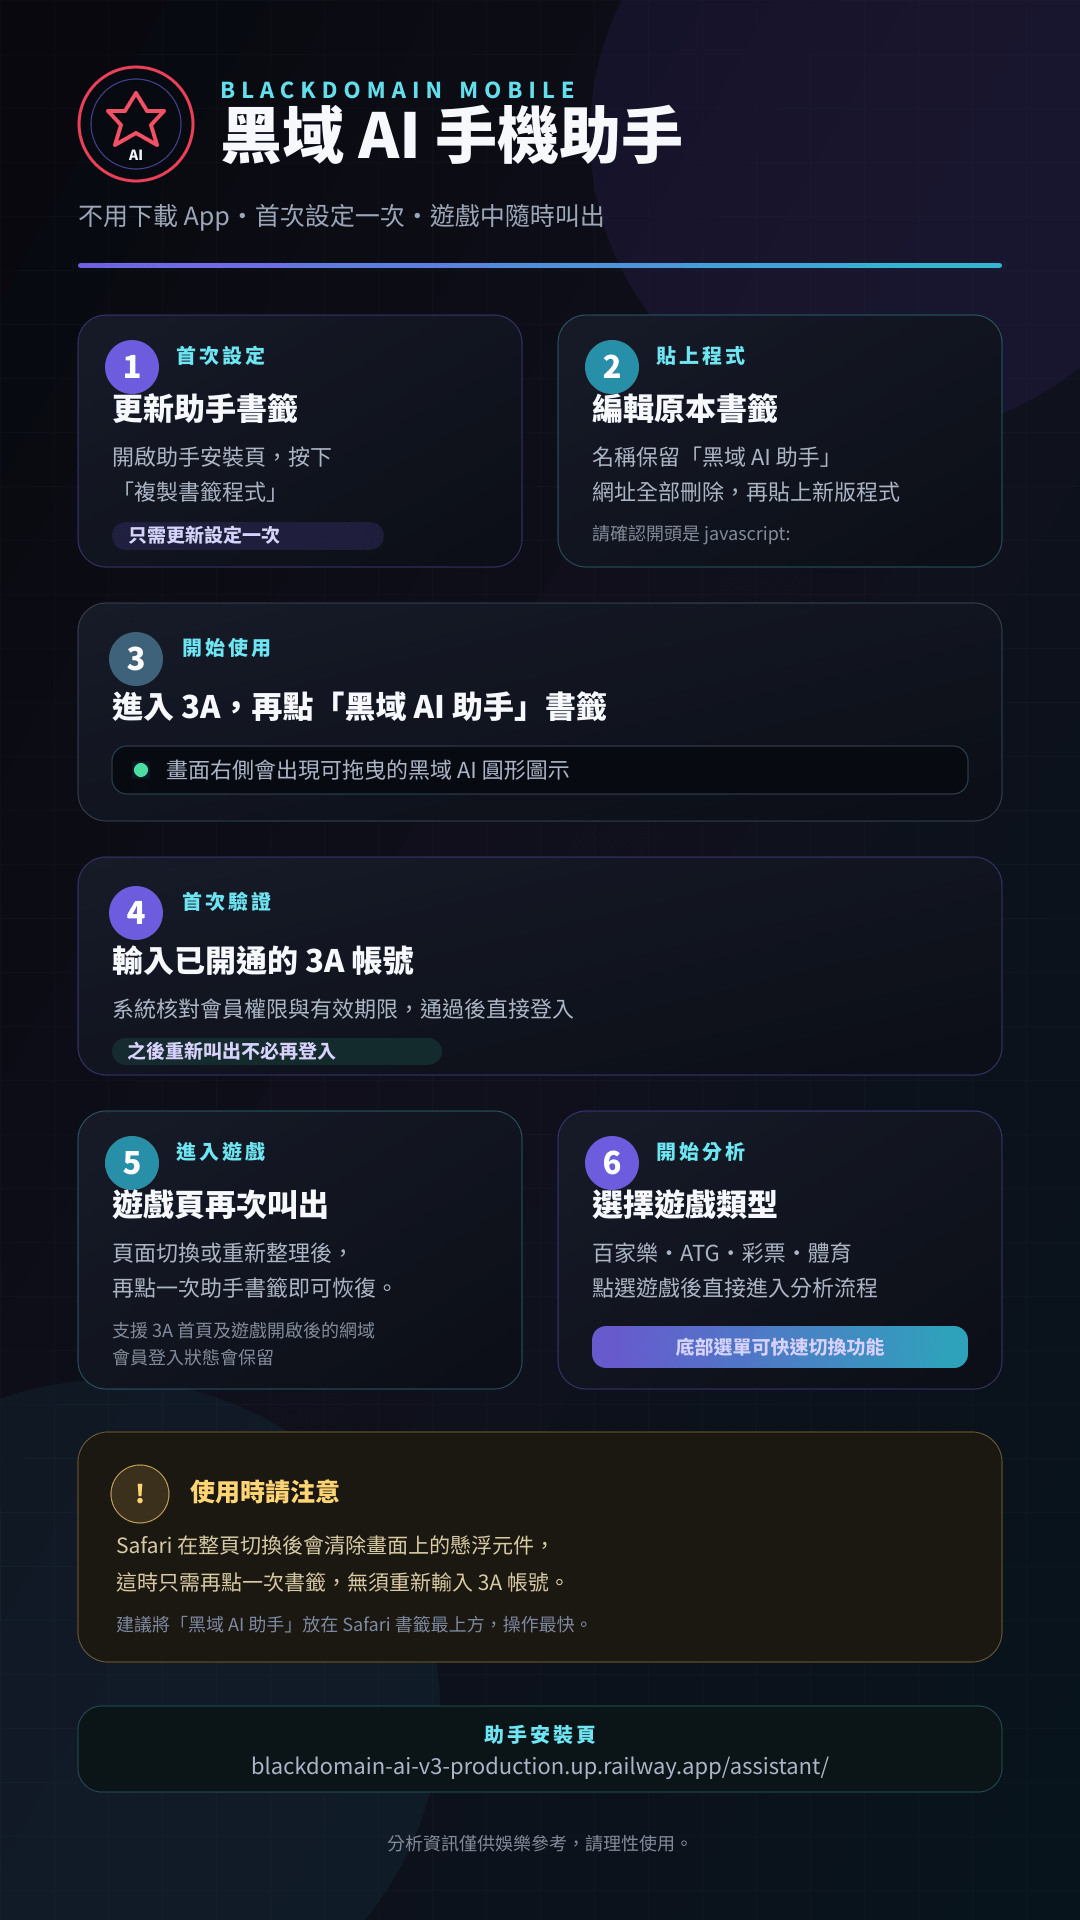
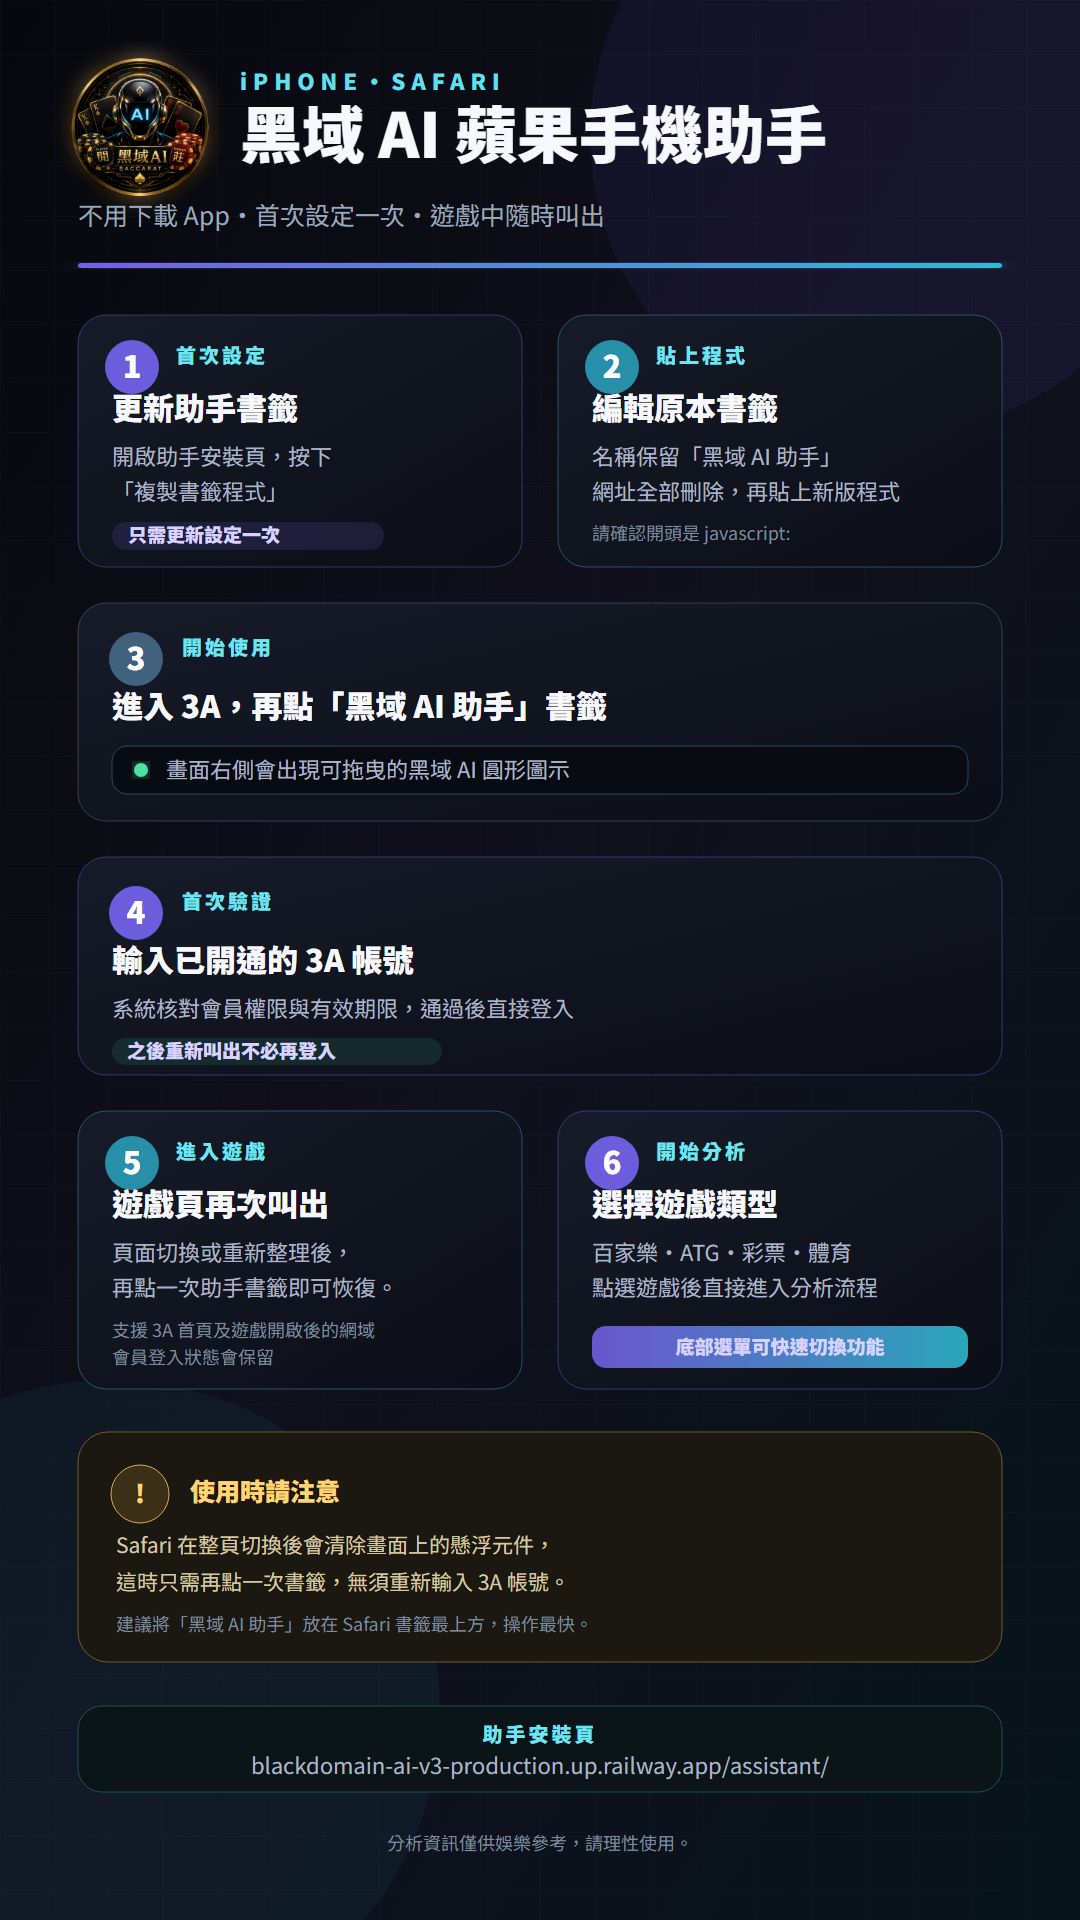
Clarify Android and iPhone assistant guides

diff --git a/public/assistant/index.html b/public/assistant/index.html
@@ -7,16 +7,8 @@
   <meta name="theme-color" content="#07080c">
   <title>黑域 AI｜一鍵懸浮助手</title>
   <style>
-    *{box-sizing:border-box}body{margin:0;min-height:100vh;padding:calc(24px + env(safe-area-inset-top)) 20px calc(30px + env(safe-area-inset-bottom));background:radial-gradient(circle at 50% 0,#281016,#090b10 42%,#050609);color:#f7f8fb;font-family:system-ui,-apple-system,"Noto Sans TC",sans-serif}.wrap{width:min(100%,560px);margin:auto}.brand{display:flex;align-items:center;gap:13px;margin-bottom:28px}.brand img{width:58px;height:58px;border-radius:50%;box-shadow:0 0 28px #8d1c2d}.brand small{display:block;color:#ff6576;letter-spacing:.14em;font-size:10px}.brand b{display:block;margin-top:4px;font-size:20px}h1{margin:0;font-size:30px;line-height:1.2}.lead{margin:12px 0 24px;color:#aeb3be;line-height:1.7}.card{padding:20px;border:1px solid #3b3036;border-radius:20px;background:rgba(12,14,20,.92);box-shadow:0 24px 70px #000}.card h2{margin:0 0 14px;font-size:18px}.code{width:100%;height:86px;padding:12px;border:1px solid #343944;border-radius:12px;background:#07090d;color:#aeb5c2;resize:none;font-size:11px}.copy,.copy-guide{width:100%;height:50px;margin-top:12px;border:0;border-radius:13px;background:linear-gradient(135deg,#ff5368,#b9142e);color:white;font-size:15px;font-weight:900}.status{min-height:20px;margin:9px 0 0;color:#6ff0bd;font-size:12px}.steps{margin-top:18px;padding:20px;border:1px solid #272c35;border-radius:18px;background:#090c12}.steps.android{border-color:#315b63}.steps h2{margin:0 0 12px;font-size:17px}.steps ol{margin:0;padding-left:22px;color:#c3c7d0;line-height:1.9}.warning{margin:14px 0 0;padding:12px 14px;border:1px solid #8b692a;border-radius:12px;background:#211b0f;color:#ffd77e;font-size:13px;line-height:1.65}.guide-text{margin-top:16px;padding:15px;border:1px solid #303a48;border-radius:13px;background:#070a0f;color:#c8ced8;font-size:13px;line-height:1.8;white-space:pre-line}.copy-guide{background:linear-gradient(135deg,#6656d8,#299aae)}.note{margin-top:18px;color:#9299a6;font-size:12px;line-height:1.65}.launch,.guide-download{display:block;margin-top:16px;padding:15px;border:1px solid #4a2730;border-radius:13px;color:#fff;text-align:center;text-decoration:none;font-weight:800}.guide{margin-top:18px;padding:12px;border:1px solid #272c35;border-radius:18px;background:#090c12}.guide img{display:block;width:100%;height:auto;border-radius:12px}.guide-download{margin:12px 0 0;border-color:#3c4657;background:#111620}
+    *{box-sizing:border-box}body{margin:0;min-height:100vh;padding:calc(24px + env(safe-area-inset-top)) 20px calc(30px + env(safe-area-inset-bottom));background:radial-gradient(circle at 50% 0,#281016,#090b10 42%,#050609);color:#f7f8fb;font-family:system-ui,-apple-system,"Noto Sans TC",sans-serif}.wrap{width:min(100%,560px);margin:auto}.brand{display:flex;align-items:center;gap:13px;margin-bottom:28px}.brand img{width:58px;height:58px;border-radius:50%;box-shadow:0 0 28px #8d1c2d}.brand small{display:block;color:#ff6576;letter-spacing:.14em;font-size:10px}.brand b{display:block;margin-top:4px;font-size:20px}h1{margin:0;font-size:30px;line-height:1.2}.lead{margin:12px 0 24px;color:#aeb3be;line-height:1.7}.card{padding:20px;border:1px solid #3b3036;border-radius:20px;background:rgba(12,14,20,.92);box-shadow:0 24px 70px #000}.card h2{margin:0 0 14px;font-size:18px}.code{width:100%;height:86px;padding:12px;border:1px solid #343944;border-radius:12px;background:#07090d;color:#aeb5c2;resize:none;font-size:11px}.copy{width:100%;height:50px;margin-top:12px;border:0;border-radius:13px;background:linear-gradient(135deg,#ff5368,#b9142e);color:white;font-size:15px;font-weight:900}.status{min-height:20px;margin:9px 0 0;color:#6ff0bd;font-size:12px}.steps{margin-top:18px;padding:20px;border:1px solid #272c35;border-radius:18px;background:#090c12}.steps.android{border-color:#315b63}.steps.iphone{border-color:#5d4b8c}.steps h2{margin:0 0 12px;font-size:17px}.steps ol{margin:0;padding-left:22px;color:#c3c7d0;line-height:1.9}.warning{margin:14px 0 0;padding:12px 14px;border:1px solid #8b692a;border-radius:12px;background:#211b0f;color:#ffd77e;font-size:13px;line-height:1.65}.note{margin-top:18px;color:#9299a6;font-size:12px;line-height:1.65}.launch,.guide-download{display:block;margin-top:16px;padding:15px;border:1px solid #4a2730;border-radius:13px;color:#fff;text-align:center;text-decoration:none;font-weight:800}.guide{margin-top:18px;padding:12px;border:1px solid #272c35;border-radius:18px;background:#090c12}.guide img{display:block;width:100%;height:auto;border-radius:12px}.guide-download{margin:12px 0 0;border-color:#3c4657;background:#111620}
   </style>
 </head>
-<body><main class="wrap"><div class="brand"><img src="/brand/blackdomain-ai-logo.png" alt="黑域 AI"><div><small>BLACKDOMAIN MOBILE TOOL</small><b>黑域 AI 懸浮助手</b></div></div><h1>一鍵放進遊戲頁面</h1><p class="lead">不需 Expo Go。首次建立書籤後，可在 3A 或遊戲頁叫出可拖曳的黑域 AI Logo；Android 與 iPhone 的啟動方式不同。</p><section class="card"><h2>複製助手書籤程式</h2><textarea id="code" class="code" readonly></textarea><button id="copy" class="copy" type="button">複製書籤程式</button><p id="status" class="status"></p></section><section class="steps android"><h2>Android Chrome 操作步驟</h2><ol><li>使用 Chrome 開啟本頁，按「複製書籤程式」。</li><li>右上角 ⋮ → 加入書籤，再編輯剛建立的書籤。</li><li>名稱改成「黑域 AI 助手」，網址刪除後貼上程式。</li><li>進入 3A，點網址列並輸入「黑域 AI 助手」。</li><li>點下方帶有 ★ 的書籤建議，右側就會出現黑域 AI Logo。</li><li>點 Logo，首次輸入已開通的 3A 帳號即可開始分析。</li></ol><p class="warning">不可使用 LINE 內建瀏覽器，也不可從 Chrome 書籤清單直接點開。</p><div id="androidGuideText" class="guide-text">【黑域 AI 安卓助手｜操作方式】
-1. 用 Chrome 開啟安裝頁並按「複製書籤程式」。
-2. 右上角 ⋮ → 加入書籤，再編輯該書籤。
-3. 名稱改成「黑域 AI 助手」，網址刪除後貼上程式。
-4. 進入 3A，點網址列輸入「黑域 AI 助手」。
-5. 點選帶有 ★ 的書籤建議，右側會出現黑域 AI Logo。
-6. 點 Logo，首次輸入已開通的 3A 帳號即可。
-
-注意：請勿使用 LINE 內建瀏覽器，也不要從 Chrome 書籤清單直接開啟。</div><button id="copyAndroid" class="copy-guide" type="button">複製 Android 文字說明</button><p id="androidCopyStatus" class="status"></p><a class="launch" href="https://sn058.3a1788.bet/" rel="noopener noreferrer">前往 3A 測試</a></section><section class="steps"><h2>iPhone Safari 設定</h2><ol><li>先將本頁加入書籤。</li><li>進入 Safari 書籤並編輯剛建立的書籤。</li><li>名稱改為「黑域 AI 助手」，網址全部刪除後貼上剛複製的程式。</li><li>開啟 3A 或遊戲頁，再從書籤點「黑域 AI 助手」。</li></ol></section><section class="guide"><img src="/assistant/blackdomain-assistant-android-guide.png" alt="黑域 AI Android 手機助手操作步驟"><a class="guide-download" href="/assistant/blackdomain-assistant-android-guide.png" download>下載 Android 操作示意圖</a></section><section class="guide"><img src="/assistant/blackdomain-assistant-guide.png" alt="黑域 AI iPhone 手機助手操作步驟"><a class="guide-download" href="/assistant/blackdomain-assistant-guide.png" download>下載 iPhone 操作示意圖</a></section><p class="note">遊戲切換或整頁重新整理後，Android 請再次從網址列搜尋並執行書籤；iPhone 再點一次 Safari 書籤即可恢復。會員登入狀態會保留。</p></main><script>let device=localStorage.getItem("blackdomain_assistant_device");if(!device){const bytes=crypto.getRandomValues(new Uint8Array(24));device=Array.from(bytes,value=>value.toString(16).padStart(2,"0")).join("");localStorage.setItem("blackdomain_assistant_device",device)}const loader=`https://blackdomain-ai-v3-production.up.railway.app/assistant/bookmarklet.js?v=20260907.03&device=${encodeURIComponent(device)}`;const code=`javascript:(()=>{if(document.getElementById('blackdomain-floating-assistant')){document.getElementById('blackdomain-floating-assistant').remove();return}const s=document.createElement('script');s.src='${loader}&t='+Date.now();s.onerror=()=>alert('黑域 AI 助手載入失敗，請確認網路後重試');document.documentElement.appendChild(s)})()`;document.getElementById("code").value=code;document.getElementById("copy").addEventListener("click",async()=>{try{await navigator.clipboard.writeText(code);document.getElementById("status").textContent=/Android/i.test(navigator.userAgent)?"已複製。貼入書籤後，請在 3A 網址列搜尋「黑域 AI 助手」啟動。":"已複製，請貼到書籤的網址欄位。"}catch{document.getElementById("code").select();document.execCommand("copy");document.getElementById("status").textContent="已複製。"}});document.getElementById("copyAndroid").addEventListener("click",async()=>{const guide=document.getElementById("androidGuideText").innerText;try{await navigator.clipboard.writeText(guide);document.getElementById("androidCopyStatus").textContent="Android 操作說明已複製。"}catch{document.getElementById("androidCopyStatus").textContent="無法自動複製，請長按上方文字複製。"}});</script></body>
+<body><main class="wrap"><div class="brand"><img src="/brand/blackdomain-ai-logo.png" alt="黑域 AI"><div><small>BLACKDOMAIN MOBILE TOOL</small><b>黑域 AI 懸浮助手</b></div></div><h1>一鍵放進遊戲頁面</h1><p class="lead">不需 Expo Go。首次建立書籤後，可在 3A 或遊戲頁叫出可拖曳的黑域 AI Logo；Android 與 iPhone 的啟動方式不同。</p><section class="card"><h2>複製助手書籤程式</h2><textarea id="code" class="code" readonly></textarea><button id="copy" class="copy" type="button">複製書籤程式</button><p id="status" class="status"></p></section><section class="steps android"><h2>Android 手機｜Chrome 操作步驟</h2><ol><li>使用 Chrome 開啟本頁，按「複製書籤程式」。</li><li>右上角 ⋮ → 加入書籤，再編輯剛建立的書籤。</li><li>名稱改成「黑域 AI 助手」，網址刪除後貼上程式。</li><li>進入 3A，點網址列並輸入「黑域 AI 助手」。</li><li>點下方帶有 ★ 的書籤建議，右側就會出現黑域 AI Logo。</li><li>點 Logo，首次輸入已開通的 3A 帳號即可開始分析。</li></ol><p class="warning">不可使用 LINE 內建瀏覽器，也不可從 Chrome 書籤清單直接點開。</p><a class="launch" href="https://sn058.3a1788.bet/" rel="noopener noreferrer">前往 3A 測試</a></section><section class="guide"><img src="/assistant/blackdomain-assistant-android-guide.png" alt="黑域 AI Android 手機助手操作步驟"><a class="guide-download" href="/assistant/blackdomain-assistant-android-guide.png" download>下載 Android 操作示意圖</a></section><section class="steps iphone"><h2>蘋果手機｜iPhone Safari 操作步驟</h2><ol><li>先將本頁加入書籤。</li><li>進入 Safari 書籤並編輯剛建立的書籤。</li><li>名稱改為「黑域 AI 助手」，網址全部刪除後貼上剛複製的程式。</li><li>開啟 3A 或遊戲頁，再從書籤點「黑域 AI 助手」。</li></ol></section><section class="guide"><img src="/assistant/blackdomain-assistant-guide.png" alt="黑域 AI 蘋果手機 iPhone 操作步驟"><a class="guide-download" href="/assistant/blackdomain-assistant-guide.png" download>下載蘋果手機操作示意圖</a></section><p class="note">遊戲切換或整頁重新整理後，Android 請再次從網址列搜尋並執行書籤；iPhone 再點一次 Safari 書籤即可恢復。會員登入狀態會保留。</p></main><script>let device=localStorage.getItem("blackdomain_assistant_device");if(!device){const bytes=crypto.getRandomValues(new Uint8Array(24));device=Array.from(bytes,value=>value.toString(16).padStart(2,"0")).join("");localStorage.setItem("blackdomain_assistant_device",device)}const loader=`https://blackdomain-ai-v3-production.up.railway.app/assistant/bookmarklet.js?v=20260907.03&device=${encodeURIComponent(device)}`;const code=`javascript:(()=>{if(document.getElementById('blackdomain-floating-assistant')){document.getElementById('blackdomain-floating-assistant').remove();return}const s=document.createElement('script');s.src='${loader}&t='+Date.now();s.onerror=()=>alert('黑域 AI 助手載入失敗，請確認網路後重試');document.documentElement.appendChild(s)})()`;document.getElementById("code").value=code;document.getElementById("copy").addEventListener("click",async()=>{try{await navigator.clipboard.writeText(code);document.getElementById("status").textContent=/Android/i.test(navigator.userAgent)?"已複製。貼入書籤後，請在 3A 網址列搜尋「黑域 AI 助手」啟動。":"已複製，請貼到書籤的網址欄位。"}catch{document.getElementById("code").select();document.execCommand("copy");document.getElementById("status").textContent="已複製。"}});</script></body>
 </html>

diff --git a/scripts/smoke-test.js b/scripts/smoke-test.js
@@ -1583,8 +1583,11 @@ async function main() {
   for (const expected of ["blackdomain-floating-assistant", "attachShadow", "pointermove", "mobile-login?embed=1"]) {
     if (!assistantBookmarkletSource.includes(expected)) throw new Error(`Floating assistant bookmarklet is missing: ${expected}`);
   }
-  for (const expected of ["複製書籤程式", "Android Chrome 操作步驟", "帶有 ★ 的書籤建議", "不可使用 LINE 內建瀏覽器", "複製 Android 文字說明", "androidGuideText", "iPhone Safari 設定", "/assistant/bookmarklet.js"]) {
+  for (const expected of ["複製書籤程式", "Android 手機｜Chrome 操作步驟", "帶有 ★ 的書籤建議", "不可使用 LINE 內建瀏覽器", "蘋果手機｜iPhone Safari 操作步驟", "/assistant/bookmarklet.js"]) {
     if (!assistantInstallSource.includes(expected)) throw new Error(`Floating assistant installer is missing: ${expected}`);
+  }
+  for (const removed of ["複製 Android 文字說明", "androidGuideText", "copyAndroid"]) {
+    if (assistantInstallSource.includes(removed)) throw new Error(`Floating assistant installer still contains duplicated Android instructions: ${removed}`);
   }
   for (const expected of ['req.query?.embed === "1"', "frame-ancestors https:"]) {
     if (!portalSecuritySource.includes(expected)) throw new Error(`Floating assistant frame restriction is missing: ${expected}`);
